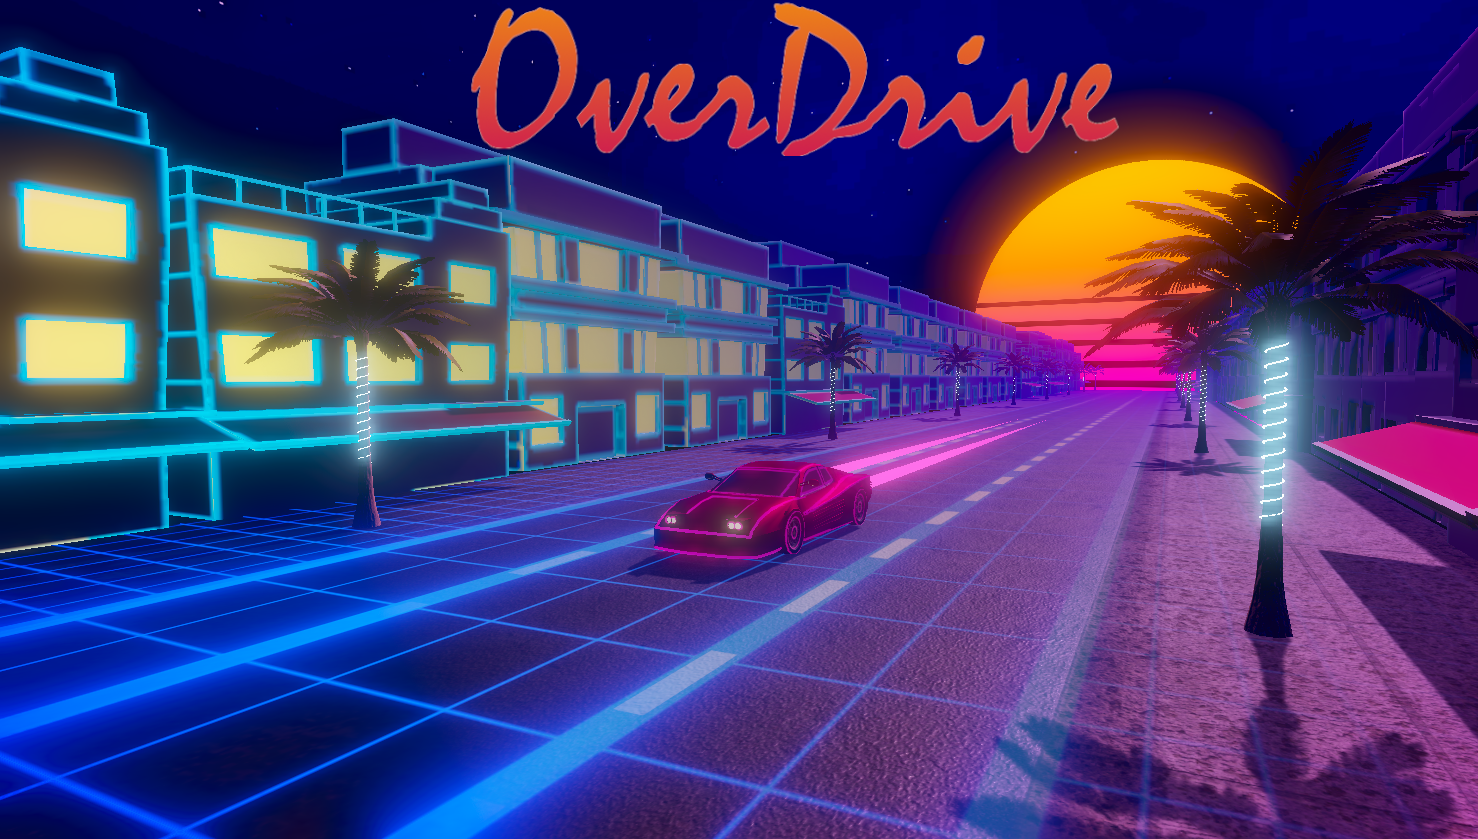
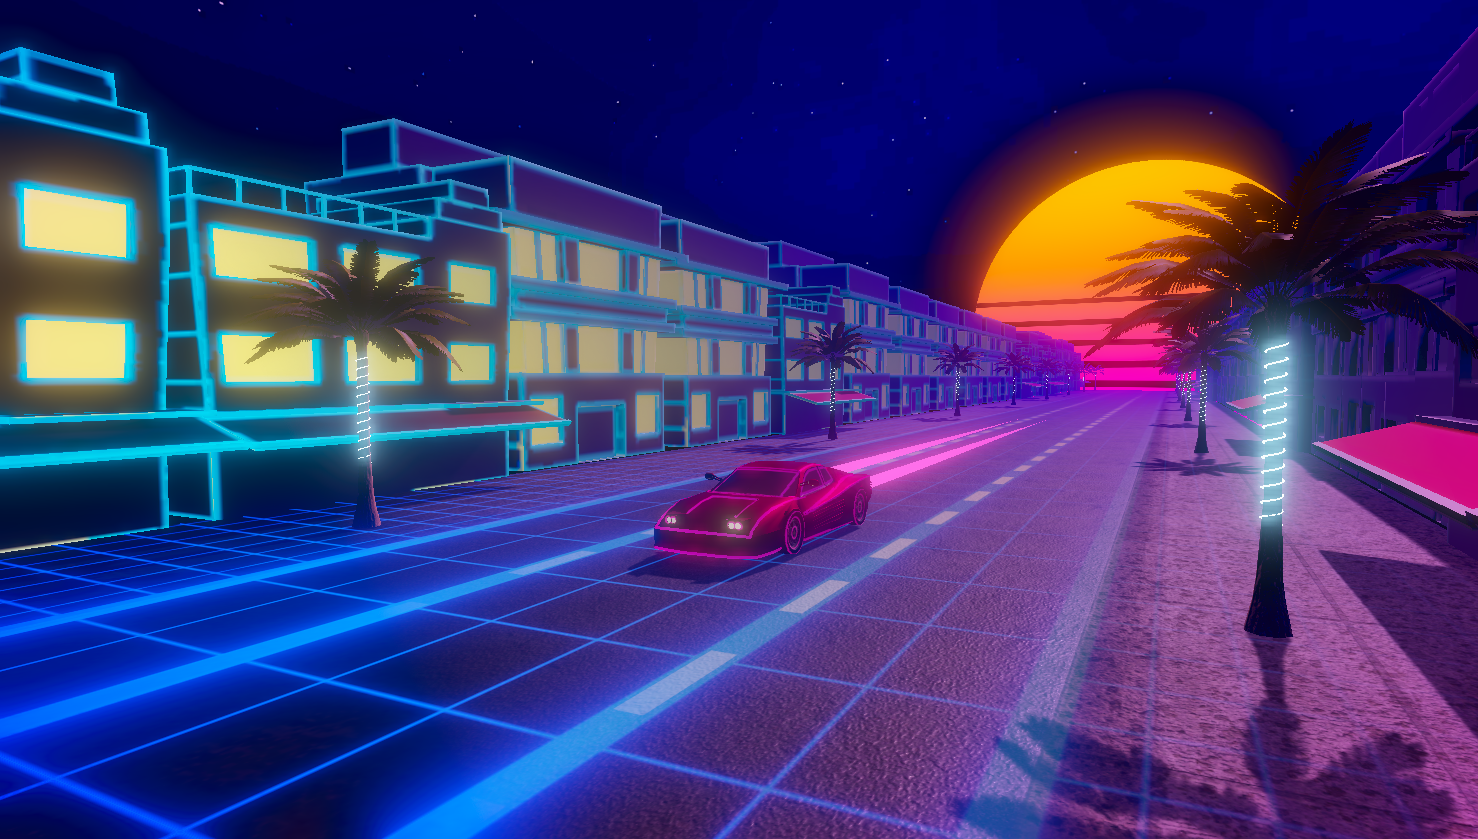
Updated poster and added mobile version

Changed region(s): [[0.3112, 0.0, 0.7781, 0.1859], [0.6536, 0.031, 0.6847, 0.093]]

diff --git a/css/style.css b/css/style.css
@@ -62,7 +62,7 @@ a:link{
 
 #cover{
     /* The image used */
-  background-image: url("../media/Poster.png");
+  background-image: url("../media/Website%20Poster.png");
     
   /* Set a specific height */
   min-height: 1100px; 
@@ -191,6 +191,13 @@ iframe{
   /* For mobile phones: */
   #gallery img{
         width: 300px;
+    }
+    
+    #cover{
+        /* The image used */
+        background-image: url("../media/Website%20Poster%20Mobile.png");
+        /* Set a specific height */
+        height: 100%;
     }
 }
 
